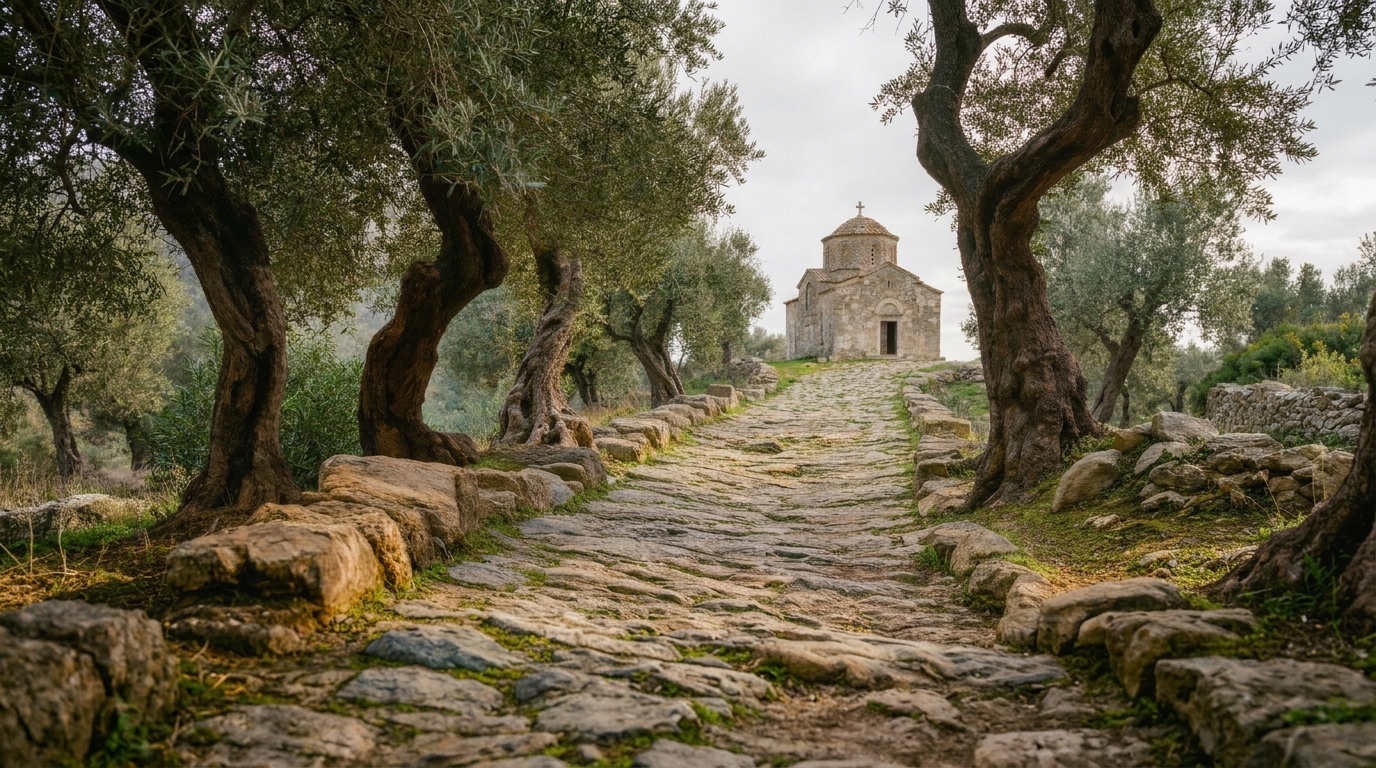
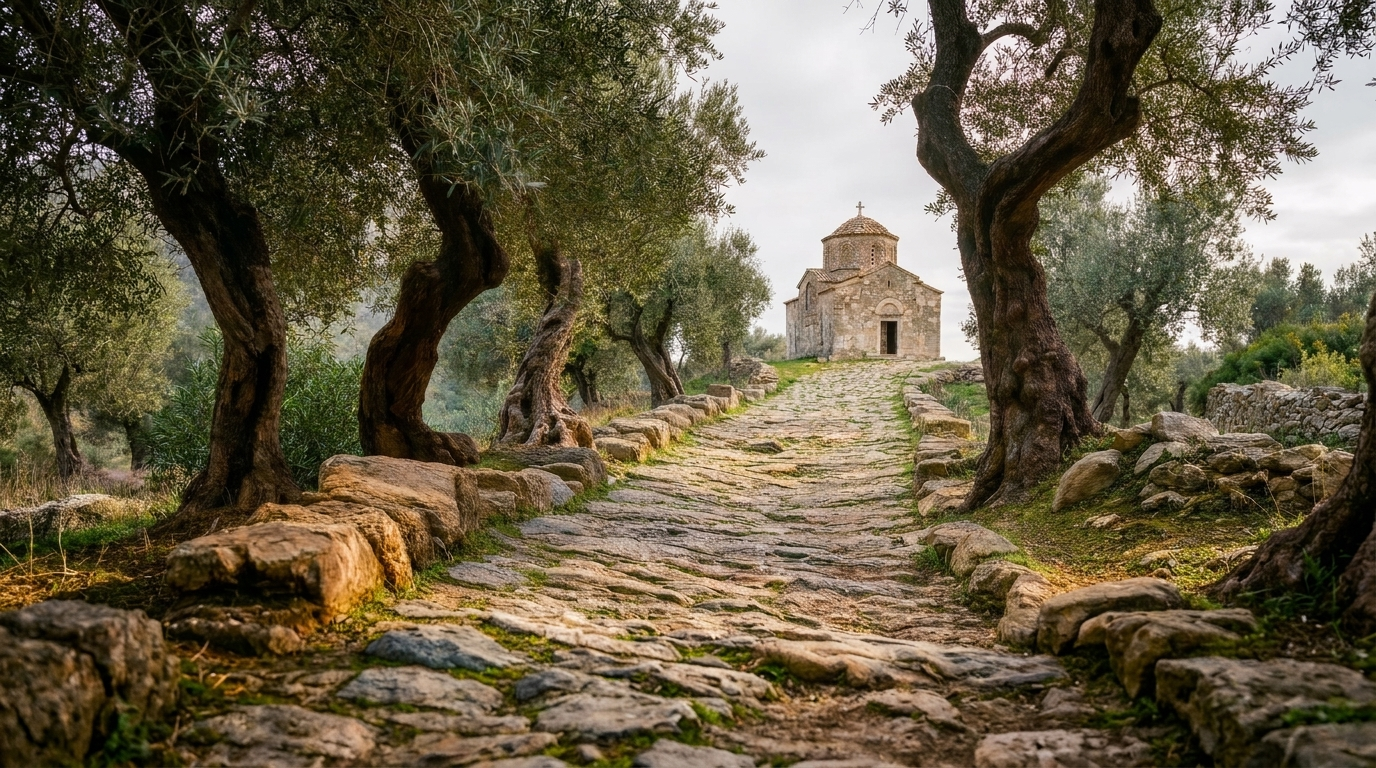
Compose the /ask empty state, announce its answer, and load the library visibly
/ASK LOOKED LIKE A STOCK CHATBOT. The content column was `flex-1` with the
examples pinned to the top and the composer stuck to the bottom edge, so a first
visit was a small heading, three floating cards, and roughly 400px of nothing
between them. The invitation is centred in the space it actually has now, which
makes the screen one thing instead of two separated by a void.

The three examples were `rounded-xl bg-paper shadow-paper` cards: the same
"three boxes in a stack" the landing page and the library have already been
moved off. They are a hairline-separated list in the reading face now, at 18px
with a quiet arrow, so they read as questions a person might ask rather than as
buttons to press.

THE ANSWER WAS SILENT TO SCREEN READERS. /ask streams retrieval, composition,
verification and a finished answer, and none of it was announced: a
screen-reader user pressed Ask and heard nothing until they went looking. The
only announced state was failure. The turn list is now an `aria-live="polite"`
region with `aria-busy`, so the product's primary output finally reaches the
people most dependent on being told it arrived. Polite rather than assertive so
it waits for a pause instead of interrupting mid-sentence.

/library NOW HAS A LOADING STATE. It is a server component with
`dynamic = 'force-dynamic'` and two DB queries and had no loading.tsx, so
navigating to it blocked with the previous page on screen and no signal that
[…]

diff --git a/web/src/components/ask-client.tsx b/web/src/components/ask-client.tsx
@@ -133,22 +133,45 @@ export function AskClient() {
         </p>
       </header>
 
-      <div className="flex-1 space-y-8">
+      {/* EMPTY STATE IS COMPOSED, NOT TOP-ALIGNED. This was `flex-1` with the examples pinned
+          to the top, so a first visit was a small heading, three floating cards, and roughly
+          400px of nothing above a composer stuck to the bottom edge. It read as a stock
+          chatbot. Centring the invitation in the space it actually has makes the screen one
+          thing instead of two things separated by a void.
+
+          The examples were three `rounded-xl bg-paper shadow-paper` cards, the same "three
+          boxes in a stack" the landing page and the library have already been moved off.
+          They are a hairline-separated list now, in the reading face, so they read as
+          questions a person might ask rather than as buttons. */}
+      <div className={turns.length === 0 ? 'flex flex-1 flex-col justify-center' : 'flex-1 space-y-8'}>
         {turns.length === 0 && (
-          <div>
-            <p className="mb-3 text-xs font-semibold uppercase tracking-[0.18em] text-stone-500 dark:text-stone-500">Try</p>
-            <div className="flex flex-col gap-2.5">
+          <div className="pb-8">
+            <p className="mb-1 text-xs font-semibold uppercase tracking-[0.18em] text-stone-500 dark:text-stone-500">
+              Ask about a verse, a phrase, or a question
+            </p>
+            <ul className="divide-y divide-stone-200/70 border-y border-stone-200/70 dark:divide-stone-800 dark:border-stone-800">
               {EXAMPLES.map((ex) => (
-                <button key={ex} onClick={() => ask(ex)}
-                  className="min-h-[48px] rounded-xl bg-paper px-4 py-2.5 text-left font-serif text-base text-stone-700 shadow-paper transition-[opacity,transform,box-shadow,background-color,border-color] duration-200 ease-gentle hover:text-stone-900 hover:shadow-float active:shadow-paper active:brightness-[0.98] dark:bg-stone-800/70 dark:text-stone-300 dark:shadow-none dark:hover:bg-stone-800 dark:hover:text-stone-100 dark:active:bg-stone-800">
-                  {ex}
-                </button>
+                <li key={ex}>
+                  <button
+                    onClick={() => ask(ex)}
+                    className="group flex min-h-[56px] w-full items-center gap-3 py-3 text-left font-serif text-lg leading-snug text-stone-700 transition-colors ease-gentle hover:text-accent-800 dark:text-stone-300 dark:hover:text-accent-300"
+                  >
+                    <span className="flex-1">{ex}</span>
+                    <span aria-hidden className="shrink-0 text-stone-500 transition-colors ease-gentle group-hover:text-accent-700 dark:text-stone-500 dark:group-hover:text-accent-300">&rarr;</span>
+                  </button>
+                </li>
               ))}
-            </div>
+            </ul>
           </div>
         )}
 
-        {turns.map((t) => <TurnView key={t.id} turn={t} />)}
+        {/* THE ANSWER WAS SILENT. /ask streams retrieval, composition, verification and the
+            finished answer, and NONE of it was announced: a screen-reader user pressed Ask and
+            heard nothing until they went looking. Failure was the only announced state.
+            `polite` rather than `assertive` so it waits for a pause instead of interrupting. */}
+        <div aria-live="polite" aria-busy={busy} className={turns.length === 0 ? 'sr-only' : 'space-y-8'}>
+          {turns.map((t) => <TurnView key={t.id} turn={t} />)}
+        </div>
         <div ref={bottomRef} className="scroll-mb-48 md:scroll-mb-36" />
       </div>
 

diff --git a/web/src/app/library/loading.tsx b/web/src/app/library/loading.tsx
@@ -1,0 +1,41 @@
+// Route-level loading for the library hub.
+//
+// /library is a server component with `dynamic = 'force-dynamic'` and two DB queries, and it
+// had NO loading.tsx, so navigating to it blocked with the previous page still on screen and
+// nothing indicating anything was happening. The app has 25 hand-written "Loading…" strings
+// and, before this, exactly one Suspense boundary.
+//
+// A skeleton rather than the word "Loading": the shape of this page is known ahead of time, so
+// showing it is more honest than a spinner and removes the layout shift when the data lands.
+// `animate-pulse` is inert under prefers-reduced-motion (see globals.css).
+export default function LibraryLoading() {
+  return (
+    <div className="mx-auto w-full max-w-3xl px-5 pb-24 pt-8" aria-busy>
+      <span className="sr-only">Loading the library</span>
+
+      <div aria-hidden className="animate-pulse">
+        <div className="mb-6 h-8 w-40 rounded-lg bg-stone-200/70 dark:bg-stone-800" />
+
+        <div className="mb-3 h-3 w-16 rounded bg-stone-200/50 dark:bg-stone-800/70" />
+        <div className="mb-9 flex flex-wrap gap-2">
+          {['w-24', 'w-28', 'w-28', 'w-24'].map((w, i) => (
+            <div key={i} className={`h-11 ${w} rounded-lg bg-stone-200/60 dark:bg-stone-800/80`} />
+          ))}
+        </div>
+
+        <div className="mb-3 h-3 w-24 rounded bg-stone-200/50 dark:bg-stone-800/70" />
+        <div className="border-y border-stone-200/70 dark:border-stone-800">
+          {['w-44', 'w-32', 'w-52', 'w-36', 'w-40', 'w-56'].map((w, i) => (
+            <div
+              key={i}
+              className="flex min-h-[64px] items-center justify-between border-b border-stone-200/70 py-4 last:border-b-0 dark:border-stone-800"
+            >
+              <div className={`h-6 ${w} rounded bg-stone-200/70 dark:bg-stone-800`} />
+              <div className="h-4 w-16 rounded bg-stone-200/50 dark:bg-stone-800/70" />
+            </div>
+          ))}
+        </div>
+      </div>
+    </div>
+  );
+}
